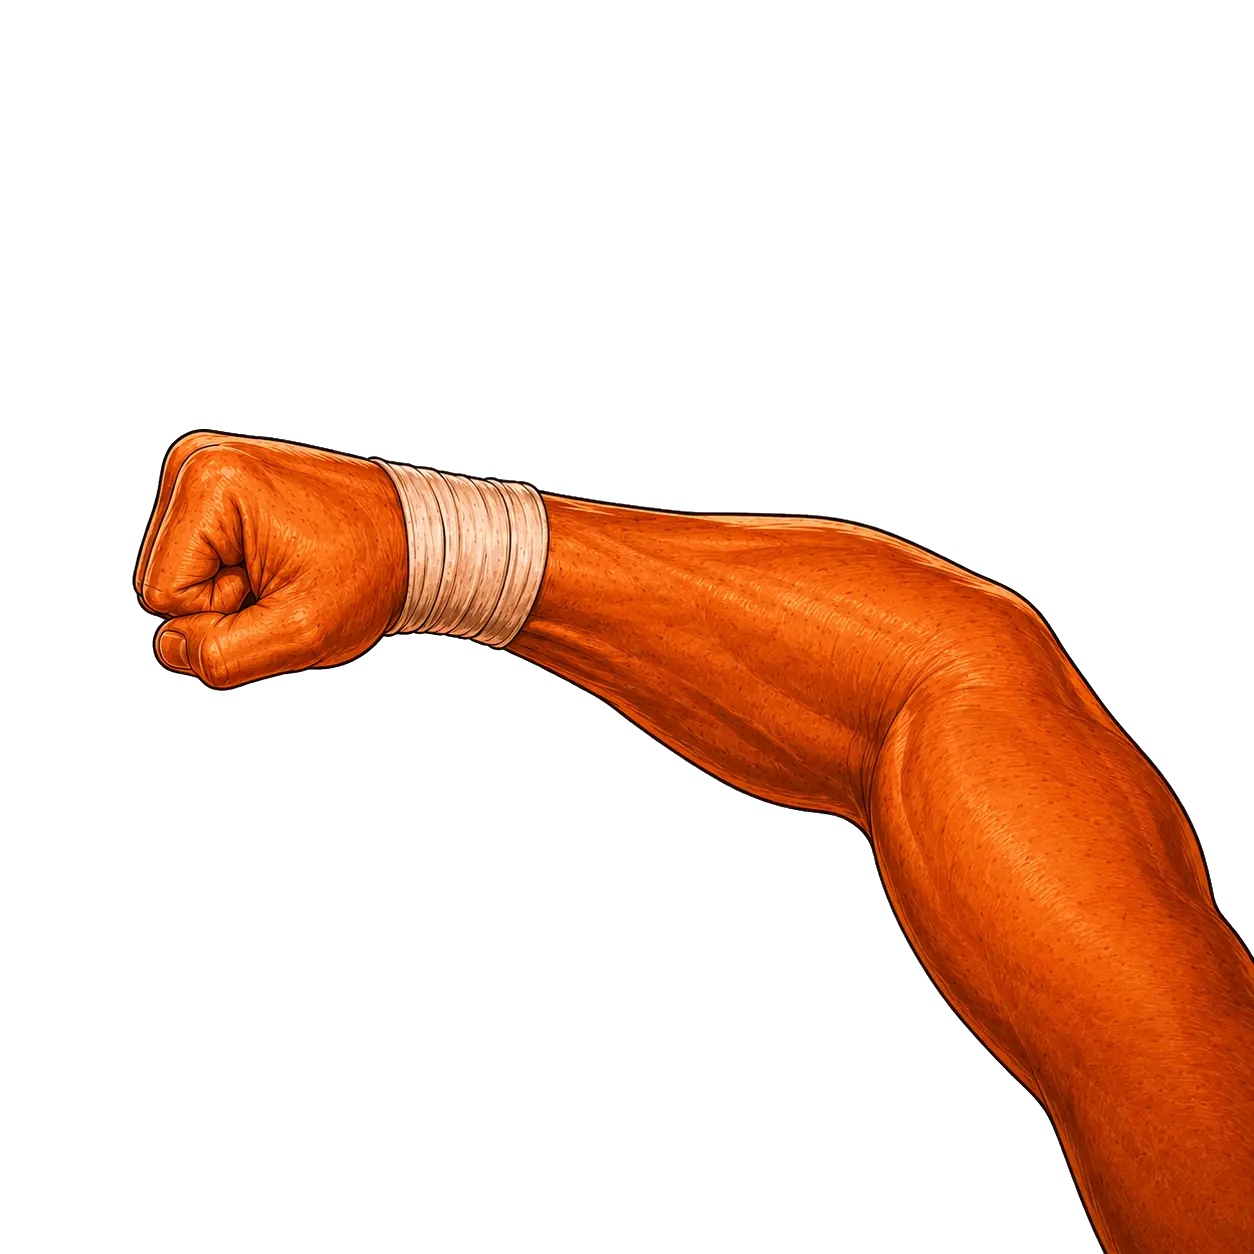
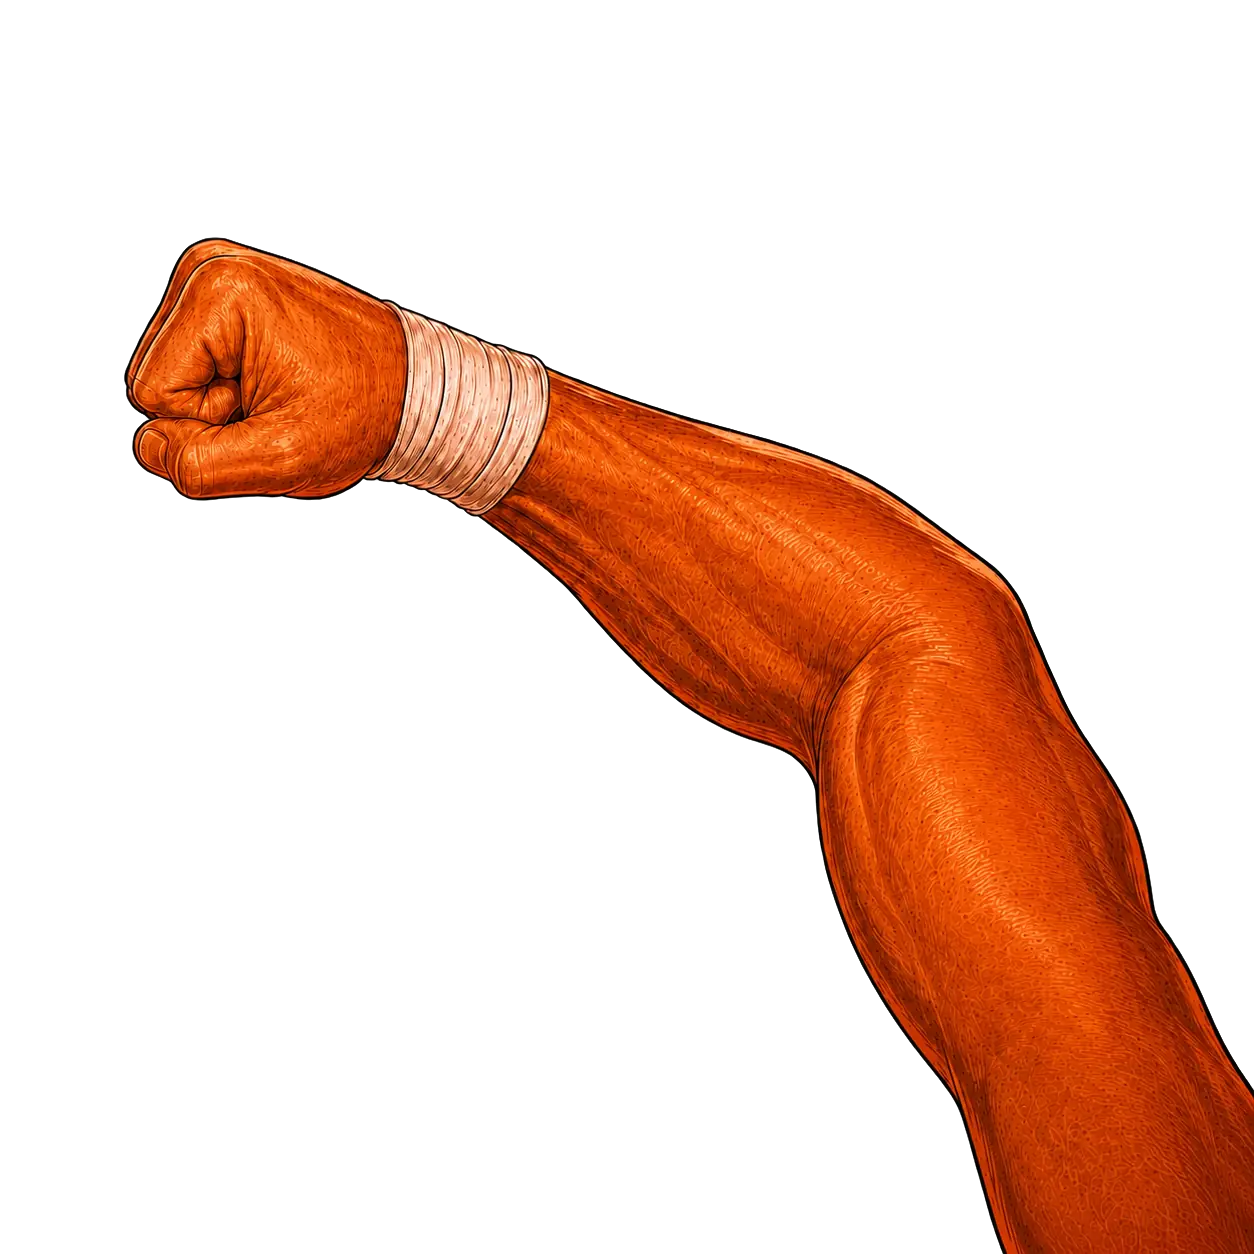
Add files via upload

Changed region(s): [[0.0933, 0.1866, 1.0, 1.0]]

diff --git a/src/Game.tsx b/src/Game.tsx
@@ -71,7 +71,7 @@ type KneeDepth = "near" | "far";
 
 const MAX_HEALTH = 100;
 const ROUND_TIME = 90;
-const GAME_VERSION = "0.49.0";
+const GAME_VERSION = "0.50.0";
 const asset = (path: string) => `${import.meta.env.BASE_URL}${path.replace(/^\//, "")}`;
 
 const POSE_ASSETS = [
@@ -140,6 +140,7 @@ export default function Home() {
   const [special, setSpecial] = useState(0);
   const [overhandImpact, setOverhandImpact] = useState(false);
   const [kneeDepth, setKneeDepth] = useState<KneeDepth>("near");
+  const [facialDamageTier, setFacialDamageTier] = useState(0);
 
   const matchRef = useRef(matchState);
   const enemyHealthRef = useRef(enemyHealth);
@@ -415,6 +416,7 @@ export default function Home() {
     setImpact(null);
     setHitStop(false);
     setSecondWind(false);
+    setFacialDamageTier(0);
     enemyKnockdownsRef.current = 0;
     enemyRiseAtRef.current = null;
     enemyRecoveryHealthRef.current = 0;
@@ -863,7 +865,7 @@ export default function Home() {
               : Math.max(1, clamp(guardRef.current - guardCost));
             guardRef.current = nextGuard;
             setGuard(nextGuard);
-            const chip = powerShot ? 7 : comboUppercut ? 5 : comboHaymaker ? 3 : style === "uppercut" ? 5 : style === "flurry" ? 1 : move === "body" ? 4 : 1;
+            const chip = powerShot ? 5 : comboUppercut ? 4 : comboHaymaker ? 2 : style === "uppercut" ? 4 : style === "flurry" ? .5 : move === "body" ? 3 : .5;
             takePlayerDamage(lateBlock ? chip + 4 : chip);
             setCallout(nextGuard <= 0 ? "GUARD BROKEN!" : directionalHaymaker ? "HAYMAKER CRUSHES YOUR GUARD!" : style === "heavy" ? "OVERHAND CRUSHES YOUR GUARD!" : lateBlock ? "LATE BLOCK" : "BLOCKED");
             if (nextGuard <= 0) {
@@ -872,7 +874,7 @@ export default function Home() {
               guardBrokenUntilRef.current = performance.now() + 700;
             }
           } else {
-            const damage = powerShot ? 31 : comboUppercut ? 20 : comboHaymaker ? 13 : style === "uppercut" ? 18 : style === "flurry" ? 5 : move === "body" ? 14 : rage ? 14 : 11;
+            const damage = powerShot ? 25 : comboUppercut ? 16 : comboHaymaker ? 10 : style === "uppercut" ? 14 : style === "flurry" ? 4 : move === "body" ? 11 : rage ? 11 : 9;
             takePlayerDamage(damage);
             setCallout(directionalHaymaker ? `MOHAWK ${move.toUpperCase()} HAYMAKER!` : style === "heavy" ? "MOHAWK OVERHAND!" : style === "uppercut" ? "UPPERCUT!" : move === "body" ? "LIVER SHOT!" : "CLEAN HIT");
           }
@@ -991,6 +993,8 @@ export default function Home() {
 
       enemyHealthRef.current = nextHealth;
       setEnemyHealth(nextHealth);
+      const reachedDamageTier = nextHealth <= 25 ? 3 : nextHealth <= 50 ? 2 : nextHealth <= 75 ? 1 : 0;
+      setFacialDamageTier((currentTier) => Math.max(currentTier, reachedDamageTier));
       setCombo((value) => enemyIsGuarding ? 0 : value + 1);
       enemyStunHitsRef.current = enemyIsGuarding ? 0 : enemyStunHitsRef.current + 1;
       const specialUppercutStun = kind === "uppercut" && !enemyIsGuarding && nextHealth > 0;
@@ -1346,7 +1350,6 @@ export default function Home() {
 
   const timerText = `${Math.floor(timer / 60)}:${String(timer % 60).padStart(2, "0")}`;
   const rage = enemyHealth <= 35 && enemyHealth > 0;
-  const damageTier = enemyHealth <= 25 ? 3 : enemyHealth <= 50 ? 2 : enemyHealth <= 75 ? 1 : 0;
   const visionClass = playerHealth <= 20 ? "vision-critical" : playerHealth <= 40 ? "vision-hurt" : "";
   const loadingProgress = Math.round((loadedAssetCount / POSE_ASSETS.length) * 100);
   const opponentAsset = enemyPose === "windup-left"
@@ -1473,7 +1476,7 @@ export default function Home() {
           </div>
         )}
 
-        <div className={`opponent-stage pose-${enemyPose} damage-tier-${damageTier} ${enemyPose === "knockdown-knee" || enemyPose === "rising" || enemyPose === "failed-rise" ? `knee-${kneeDepth}` : ""} ${playerPose === "special-uppercut" ? "is-special-contact-hidden" : ""} ${rage ? "is-raging" : ""} ${secondWind && matchState !== "enemy-down" ? "is-second-wind" : ""}`}>
+        <div className={`opponent-stage pose-${enemyPose} damage-tier-${facialDamageTier} ${enemyPose === "knockdown-knee" || enemyPose === "rising" || enemyPose === "failed-rise" ? `knee-${kneeDepth}` : ""} ${playerPose === "special-uppercut" ? "is-special-contact-hidden" : ""} ${rage ? "is-raging" : ""} ${secondWind && matchState !== "enemy-down" ? "is-second-wind" : ""}`}>
           <div className="opponent-shadow" aria-hidden="true" />
           <img className="opponent-pose-art" src={opponentAsset} alt="A muscular mohawk fighter in the ring" draggable={false} />
           <div className="damage-glow" aria-hidden="true" />

diff --git a/src/styles.css b/src/styles.css
@@ -280,7 +280,6 @@ button { font: inherit; touch-action:manipulation; -webkit-user-select:none; use
 .damage-tier-1 .facial-damage,.damage-tier-1 .facial-damage i { opacity:.62; }
 .damage-tier-2 .facial-damage,.damage-tier-2 .facial-damage i,.damage-tier-2 .facial-damage b { opacity:.82; }
 .damage-tier-3 .facial-damage,.damage-tier-3 .facial-damage i,.damage-tier-3 .facial-damage b,.damage-tier-3 .facial-damage em { opacity:1; }
-.opponent-stage:not(.pose-idle):not(.pose-guard):not(.pose-taunt) .facial-damage { opacity:0 !important; }
 .fight-countdown { position:absolute; z-index:62; inset:0; display:grid; place-items:center; pointer-events:none; background:radial-gradient(circle at center,rgba(246,173,42,.12),transparent 33%); }
 .fight-countdown strong { color:#f7f2e7; font:1000 clamp(8rem,25vw,22rem)/1 "Arial Black",sans-serif; -webkit-text-stroke:clamp(3px,.45vw,8px) #17110f; text-shadow:clamp(7px,1vw,18px) clamp(9px,1.3vw,24px) 0 #d52219,0 0 30px rgba(255,185,44,.7); animation:countdownPop .7s cubic-bezier(.12,.8,.2,1) both; }
 